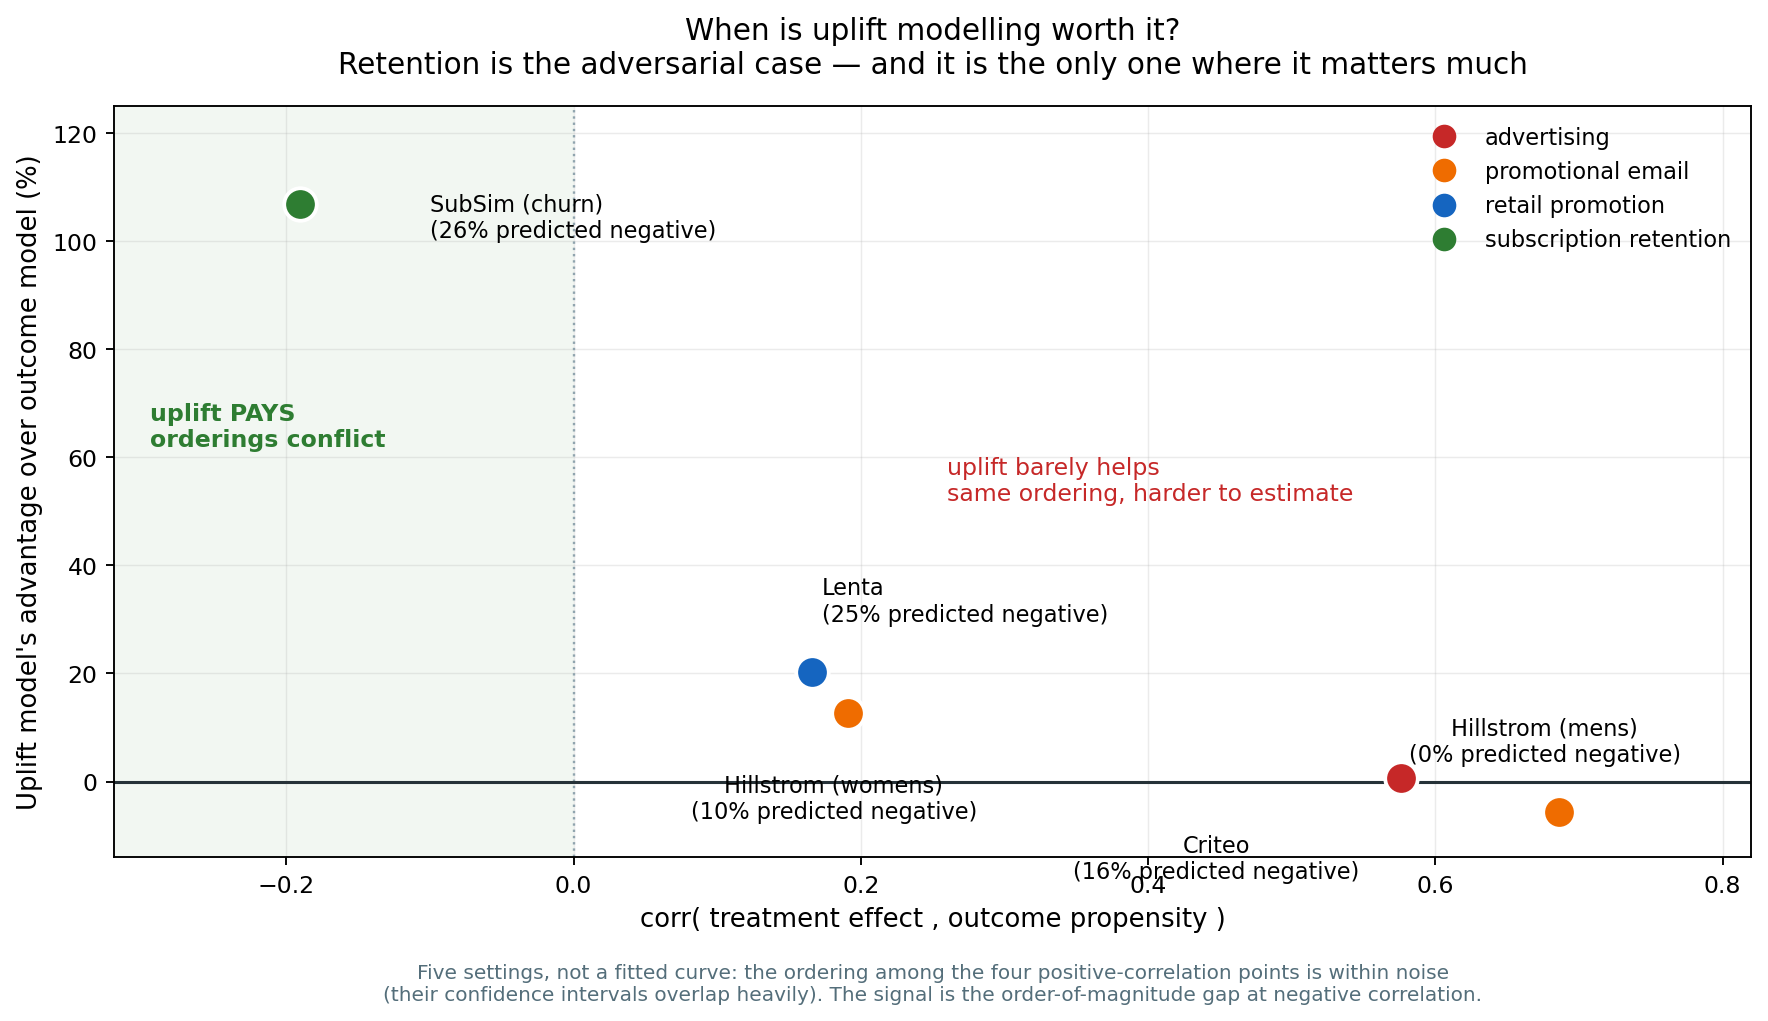
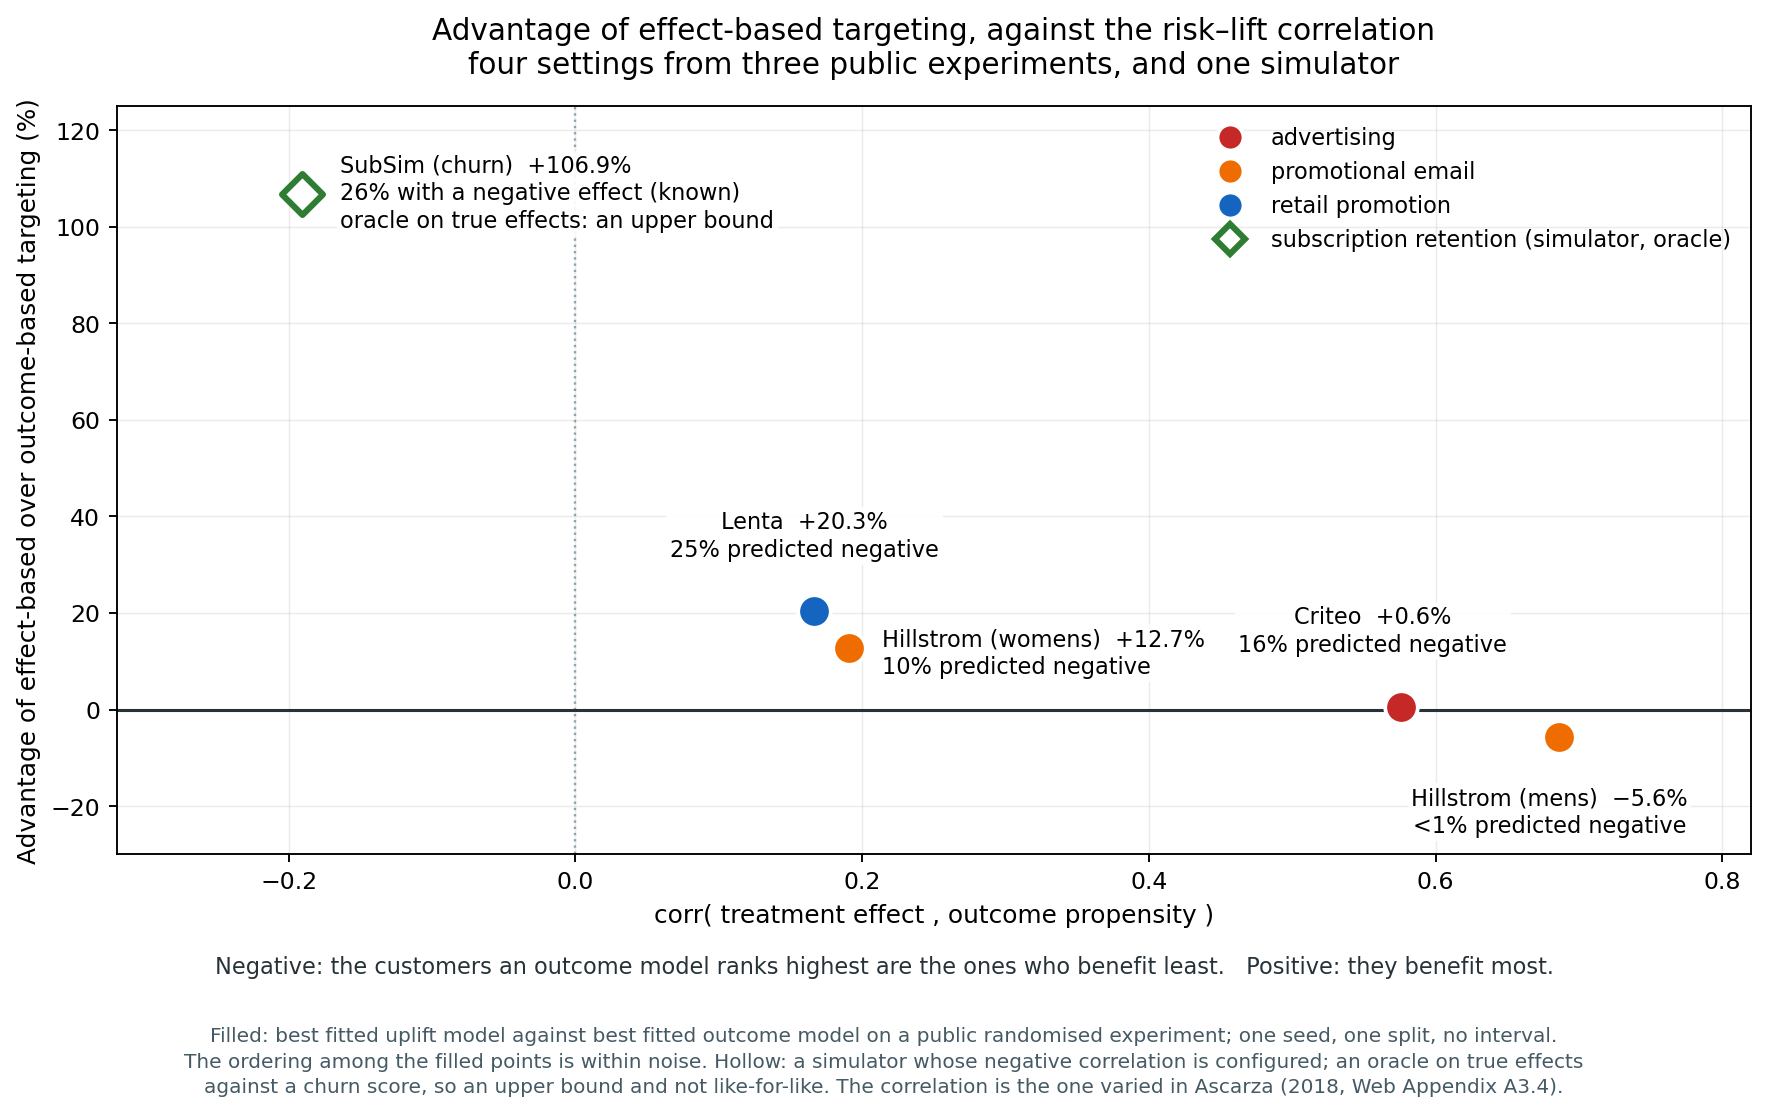
Correlation figure redrawn: the simulator point is marked as an oracle upper bound, not one point on a curve (D-068)
The old figure was titled "Retention is the adversarial case", shaded the
negative-correlation region as "uplift PAYS" and called the gap there "the
signal". That gap compares an oracle on true effects with a churn score, on a
simulator configured to have a negative correlation; the other four points
compare two fitted models on real experiments.

Point now records how it was measured (basis: estimated or oracle), and the
marker, label, legend and printed report are derived from that field.
Estimated points are filled; the SubSim point is a hollow diamond labelled
"oracle on true effects: an upper bound". The claim-style title, the shaded
region and both interpretive notes are removed. The footnote states how each
kind of point is measured and that the correlation is the one varied in
Ascarza (2018, Web Appendix A3.4).

Three defects found while redrawing: SubSim's share harmed was labelled
"predicted" though it is the true share; Hillstrom (mens) showed "0% predicted
negative" for 0.47%; two labels collided so that "Hillstrom (mens)" sat beside
the Criteo point.

Re-measured on the datasets on disk: +0.69/-5.6%, +0.58/+0.6%, +0.19/+12.7%,
+0.17/+20.3%, -0.19/+106.9%. Identical to the 15 Aug 2026 run.

The explainer's copy of the figure dated from 8 Aug and showed superseded
values; it is synced, and the paragraphs of explainer/05 that describe the
figure are corrected to match it.

No tests added: the count (467) is quoted across the panel materials and the
[…]

diff --git a/retainiq/benchmarks/spectrum.py b/retainiq/benchmarks/spectrum.py
@@ -76,6 +76,9 @@ FIG_DIR = Path(__file__).resolve().parents[2] / "papers" / "figures"
 UPLIFT_MODELS = [TLearner, SLearner, ClassTransform]
 OUTCOME_MODELS = [OutcomePropensity, ResponseModel]
 
+ESTIMATED = "estimated"
+ORACLE = "oracle"
+
 
 @dataclass
 class Point:
@@ -87,6 +90,10 @@ class Point:
     """(best uplift - best outcome) / |best outcome|, as a percentage."""
     negative_share: float
     n: int
+    basis: str = ESTIMATED
+    """How the point was measured. ``ESTIMATED``: two fitted models on a real
+    experiment. ``ORACLE``: true effects and an oracle policy against a fitted score,
+    which is an upper bound and not like-for-like with an estimated point (D-068)."""
 
 
 def measure(rct, budget_fraction: float = 0.30, seed: int = 0) -> tuple[float, float, float]:
@@ -166,6 +173,7 @@ def subsim_point() -> Point:
         name="SubSim (churn)", domain="subscription retention",
         correlation=corr, uplift_advantage=advantage,
         negative_share=float((po["tau_true"] > 0).mean()), n=len(po),
+        basis=ORACLE,
     )
 
 
@@ -185,74 +193,118 @@ def collect() -> list[Point]:
     return points
 
 
+COLOURS = {
+    "advertising": "#C62828",
+    "promotional email": "#EF6C00",
+    "retail promotion": "#1565C0",
+    "subscription retention": "#2E7D32",
+}
+
+# Hand-placed label offsets, in points: (dx, dy, horizontal alignment). Criteo and
+# Hillstrom (mens) sit close together near zero advantage, as do Lenta and Hillstrom
+# (womens), so automatic placement collides.
+LABEL_OFFSETS = {
+    "SubSim (churn)": (16, 0, "left"),
+    "Lenta": (-4, 32, "center"),
+    "Hillstrom (womens)": (14, -2, "left"),
+    "Criteo": (-12, 32, "center"),
+    "Hillstrom (mens)": (-4, -32, "center"),
+}
+
+
+def marker_style(point: Point) -> dict:
+    """Filled for an estimated point, hollow for an oracle one.
+
+    The distinction is drawn from ``Point.basis`` and not from the point's name, so a
+    point measured against true effects cannot be plotted as if it were an estimate.
+    """
+    colour = COLOURS.get(point.domain, "#455A64")
+    if point.basis == ORACLE:
+        return {"marker": "D", "s": 150, "facecolor": "white", "edgecolor": colour,
+                "linewidth": 2.6}
+    return {"marker": "o", "s": 190, "facecolor": colour, "edgecolor": "white",
+            "linewidth": 1.6}
+
+
+def point_label(point: Point) -> str:
+    advantage = f"{point.uplift_advantage:+.1f}%".replace("-", "\u2212")
+    # A share that rounds to zero is not zero: Hillstrom (mens) has 0.5% predicted
+    # negative, and printing "0%" would say there are none.
+    share = "<1%" if 0 < point.negative_share < 0.005 else f"{point.negative_share:.0%}"
+    head = f"{point.name}  {advantage}"
+    if point.basis == ORACLE:
+        return (f"{head}\n{share} with a negative effect (known)\n"
+                "oracle on true effects: an upper bound")
+    return f"{head}\n{share} predicted negative"
+
+
 def figure_3(points: list[Point] | None = None, out: Path | None = None) -> Path:
     points = points or collect()
-    fig, ax = plt.subplots(figsize=(10.5, 6.2))
-
-    colours = {
-        "advertising": "#C62828",
-        "promotional email": "#EF6C00",
-        "retail promotion": "#1565C0",
-        "subscription retention": "#2E7D32",
-    }
+    fig, ax = plt.subplots(figsize=(10.5, 6.6))
 
     ax.axhline(0, color="#263238", lw=1.3, zorder=2)
     ax.axvline(0, color="#90A4AE", lw=1.0, ls=":", zorder=1)
 
-    # Hand-placed label offsets: Criteo and Hillstrom(mens) sit almost on top of
-    # each other at corr ~0.6, so automatic placement collides.
-    offsets = {
-        "SubSim (churn)": (55, -6),
-        "Hillstrom (womens)": (-6, -36),
-        "Lenta": (4, 30),
-        "Criteo": (-78, -34),
-        "Hillstrom (mens)": (-6, 30),
-    }
     for p in points:
-        ax.scatter(p.correlation, p.uplift_advantage, s=190,
-                   color=colours[p.domain], zorder=5, edgecolor="white", lw=1.6)
-        dx, dy = offsets.get(p.name, (0, 22))
+        ax.scatter(p.correlation, p.uplift_advantage, zorder=5, **marker_style(p))
+        dx, dy, ha = LABEL_OFFSETS.get(p.name, (0, 26, "center"))
         ax.annotate(
-            f"{p.name}\n({p.negative_share:.0%} predicted negative)",
-            xy=(p.correlation, p.uplift_advantage),
+            point_label(p), xy=(p.correlation, p.uplift_advantage),
             xytext=(dx, dy), textcoords="offset points",
-            ha="left" if dx > 0 else "center", va="center", fontsize=9.5,
+            ha=ha, va="center", fontsize=9.5, linespacing=1.25, zorder=6,
+            # Opaque backing, so a label never has a grid or axis line through it.
+            bbox={"facecolor": "white", "edgecolor": "none", "pad": 1.5, "alpha": 0.92},
         )
 
-    ax.set_ylim(-14, 125)
+    ax.set_ylim(-30, 125)
     ax.set_xlim(-0.32, 0.82)
 
-    ax.axvspan(-0.32, 0.0, color="#2E7D32", alpha=0.06, lw=0, zorder=0)
-    ax.annotate("uplift PAYS\norderings conflict", xy=(-0.295, 62),
-                fontsize=10, color="#2E7D32", ha="left", weight="bold")
-    ax.annotate("uplift barely helps\nsame ordering, harder to estimate", xy=(0.26, 52),
-                fontsize=10, color="#C62828", ha="left")
-
-    ax.set_xlabel("corr( treatment effect , outcome propensity )", fontsize=11)
-    ax.set_ylabel("Uplift model's advantage over outcome model (%)", fontsize=11)
+    ax.set_xlabel("corr( treatment effect , outcome propensity )", fontsize=10.5)
+    ax.set_ylabel("Advantage of effect-based over outcome-based targeting (%)", fontsize=10.5)
     ax.set_title(
-        "When is uplift modelling worth it?\n"
-        "Retention is the adversarial case — and it is the only one where it matters much",
+        "Advantage of effect-based targeting, against the risk\u2013lift correlation\n"
+        "four settings from three public experiments, and one simulator",
         fontsize=12.5, pad=14,
     )
     ax.grid(alpha=0.25, lw=0.6)
     ax.set_axisbelow(True)
-    # Four points is a contrast, not a fitted relationship. Deliberately no trend line.
-    ax.text(
-        0.5, -0.19,
-        "Five settings, not a fitted curve: the ordering among the four positive-correlation "
-        "points is within noise\n(their confidence intervals overlap heavily). The signal is "
-        "the order-of-magnitude gap at negative correlation.",
-        transform=ax.transAxes, ha="center", fontsize=8.5, color="#546E7A",
+
+    # Five points are a contrast, not a fitted relationship. Deliberately no trend
+    # line, and no shaded "uplift pays" region: the one point at negative correlation
+    # is an oracle on a simulator configured to have that correlation (D-068).
+    fig.text(
+        0.5, 0.118,
+        "Negative: the customers an outcome model ranks highest are the ones who benefit "
+        "least.   Positive: they benefit most.",
+        ha="center", va="bottom", fontsize=9.5, color="#263238",
+    )
+    fig.text(
+        0.5, 0.012,
+        "Filled: best fitted uplift model against best fitted outcome model on a public "
+        "randomised experiment; one seed, one split, no interval.\n"
+        "The ordering among the filled points is within noise. Hollow: a simulator whose "
+        "negative correlation is configured; an oracle on true effects\n"
+        "against a churn score, so an upper bound and not like-for-like. The correlation "
+        "is the one varied in Ascarza (2018, Web Appendix A3.4).",
+        ha="center", va="bottom", fontsize=8.5, color="#455A64", linespacing=1.45,
     )
 
-    handles = [
-        plt.Line2D([], [], marker="o", ls="", color=c, ms=9, label=d)
-        for d, c in colours.items()
-    ]
+    handles, seen = [], set()
+    for p in points:
+        key = (p.domain, p.basis)
+        if key in seen:
+            continue
+        seen.add(key)
+        style = marker_style(p)
+        label = p.domain if p.basis == ESTIMATED else f"{p.domain} (simulator, oracle)"
+        handles.append(plt.Line2D(
+            [], [], ls="", marker=style["marker"], ms=11 if p.basis == ESTIMATED else 9,
+            markerfacecolor=style["facecolor"], markeredgecolor=style["edgecolor"],
+            markeredgewidth=style["linewidth"], label=label,
+        ))
     ax.legend(handles=handles, frameon=False, fontsize=9.5, loc="upper right")
 
-    fig.tight_layout()
+    fig.tight_layout(rect=(0, 0.14, 1, 1))
     out = out or (FIG_DIR / "fig03_when_uplift_pays.png")
     out.parent.mkdir(parents=True, exist_ok=True)
     fig.savefig(out, dpi=170, bbox_inches="tight", facecolor="white")
@@ -268,18 +320,22 @@ def report(points: list[Point]) -> str:
         "-" * 84,
     ]
     for p in sorted(points, key=lambda q: -q.correlation):
+        name = f"{p.name} *" if p.basis == ORACLE else p.name
         lines.append(
-            f"{p.name:<22}{p.domain:<24}{p.correlation:>8.2f}"
+            f"{name:<22}{p.domain:<24}{p.correlation:>8.2f}"
             f"{p.uplift_advantage:>12.1f}%{p.negative_share:>12.1%}"
         )
     lines.append("-" * 84)
     lines.append(
         "High correlation => outcome model ranks the same customers, via an easier\n"
         "estimation problem, so uplift modelling costs variance and buys nothing.\n"
-        "Negative correlation => the outcome model actively selects customers it harms.\n"
-        "SubSim row: true effects, oracle vs churn score. It is an upper bound, not\n"
-        "like-for-like with the rows above (D-068)."
+        "Negative correlation => the outcome model actively selects customers it harms."
     )
+    if any(p.basis == ORACLE for p in points):
+        lines.append(
+            "* true effects, oracle vs churn score. An upper bound, not like-for-like\n"
+            "  with the estimated rows (D-068)."
+        )
     return "\n".join(lines)
 
 

diff --git a/docs/BUILDLOG.md b/docs/BUILDLOG.md
@@ -1518,3 +1518,44 @@ re-run: the table values are those recorded on 15 August 2026.
 **Tested.** `spectrum.report` printed with the new footer; lint clean; `make check` green
 (467 tests, both calibration gates). No test reads the changed strings.
 
+## Correlation figure redrawn so it cannot be read as one curve (D-068)
+
+**Changed.** `fig03_when_uplift_pays.png`, from `python -m retainiq.benchmarks.spectrum`.
+`Point` gains a `basis` field (`estimated` or `oracle`); the marker, the label, the legend
+and the printed report are derived from it, so a point measured against true effects cannot
+be drawn as if it were an estimate. Estimated points are filled; the SubSim point is a hollow
+diamond labelled "oracle on true effects: an upper bound". Removed: the title "Retention is
+the adversarial case — and it is the only one where it matters much", the shaded region
+captioned "uplift PAYS", the note "uplift barely helps", and the footnote sentence calling the
+gap at negative correlation "the signal". Added: a neutral title, each point's advantage in
+its label, a plain reading of the axis sign, and a footnote stating how each kind of point is
+measured and that the correlation is the one varied in Ascarza (2018, Web Appendix A3.4).
+
+**Found while redrawing.** Three defects in the old figure that were not about the claim.
+The SubSim label read "26% predicted negative" although that share is the *true* share
+harmed; it now says "known". Hillstrom (mens) read "0% predicted negative" for a share of
+0.47%; a share that rounds to zero now prints "<1%". Two labels collided with the axis and
+with each other, so "Hillstrom (mens)" sat beside the Criteo point.
+
+**Numbers.** Re-measured on the datasets on disk (61 s): +0.69 / −5.6%, +0.58 / +0.6%,
++0.19 / +12.7%, +0.17 / +20.3%, −0.19 / +106.9%. Identical to the 15 August 2026 run and to
+the README table.
+
+**Also changed.** The explainer's copy of the figure was from 8 August and showed
+superseded values; it is synced, and the three paragraphs of `explainer/05` that describe
+the figure now explain the hollow point, credit the idea, and quote the current values
+(+0.17, between +0.58 and −0.19). The rest of the explainer has not been reviewed against
+D-068.
+
+**Not changed.** The captions in `PROJECT_REPORT.md`, `papers/RESEARCH_PAPER.md` and
+`papers/paper1/main.tex`, which now sit beside a more cautious figure than they describe; the
+built paper PDF and DOCX, which still embed the old one.
+
+**Tested.** Looked at the rendered figure at full size. Ad-hoc checks, not added to the suite:
+default basis is `estimated`; oracle and estimated markers differ; the oracle label carries
+"upper bound" and an estimated one does not; 0.47% prints "<1%" and a true zero prints "0%";
+the report stars only oracle rows and omits the footnote when there are none; a point with an
+unknown name and domain renders (the old code raised `KeyError`). `make check` green, 467
+tests. **No tests were added**, because the test count is quoted throughout the panel
+materials and the recorded video; adding them is a separate, coordinated change.
+

diff --git a/explainer/05-the-evidence.md b/explainer/05-the-evidence.md
@@ -260,23 +260,37 @@ being merely wasteful and starts actively selecting the customers you will harm.
 Each point is one setting. The horizontal axis measures how closely the two orderings
 agree. The vertical axis is how much better the effect-based approach does.
 
-Everything on the right — advertising, promotional email, retail texts — sits near zero.
-The orderings agree there, so the sophisticated approach buys almost nothing. Only
-subscription retention sits on the left, and it is an order of magnitude above the rest.
+The four filled points are real experiments: an advertising campaign, two promotional
+emails and a retail promotion. In each one we fitted both kinds of model and compared
+them. Where the two orderings agree closely, on the right, the sophisticated approach
+buys nothing or does slightly worse. Where they agree less, it does somewhat better.
 
-### Why this made the argument stronger, not weaker
+The hollow point is different and should be read differently. It is our simulator, not a
+real business. We built the simulator so that the two orderings conflict, and the point
+shows the best that *any* targeting could do there, because it uses the true effect of
+the offer on each customer, which only a simulator can know. It is a ceiling on the gain,
+not a gain anyone has achieved.
+
+### What this does and does not show
 
 It replaced *"this approach is better"* — which is **false in advertising, and we can
-prove it** — with something narrower and testable: **subscription retention has a
-structure that advertising does not.**
+show it** — with something narrower: **how much the effect-based approach gains depends
+on how far the two orderings disagree.**
+
+That idea is not ours. A 2018 study by Eva Ascarza varied this same quantity in a
+simulation and reported two field experiments; in one of them, targeting the customers
+most likely to cancel made cancellations rise. What we add is the measurement on public
+experiments, and what happens when there is little data to learn from.
 
 It also produced a prediction we could get wrong. Before downloading Lenta, we wrote down
 that retail promotion should land *between* advertising and subscription retention. It
-landed at +0.18, between +0.61 and −0.19, as predicted.
+landed at +0.17, between +0.58 and −0.19, as predicted.
 
-One caveat we state plainly, and the figure states on its face: with five settings this
-is a contrast, not a curve. The ordering among the four points on the right is within
-noise. The finding is the gap on the left.
+Two caveats we state plainly, and the figure states on its face. With five settings this
+is a contrast, not a curve: the ordering among the four filled points is within noise.
+And none of the four real experiments is about cancellations, so the claim that
+subscription retention sits on the left rests on our simulator and on other researchers'
+field experiments, not on data of our own.
 
 ---
 

diff --git a/CLAUDE.md b/CLAUDE.md
@@ -208,7 +208,7 @@ Older detail lives in `docs/BUILDLOG.md`; only the current edge is kept here.
   churn (+4.4pp). Profit-scored targeting + validated cutoff = Lemmens & Gupta 2020, **not yet a
   baseline**. Left: pilot size, low-churn floor, uplift losing at finite n. **Our five points are
   NOT like-for-like** (real: estimates, pooled risk, one seed; SubSim: TRUE effect, ORACLE vs
-  score); six checks owed. README, plan, `spectrum.py` corrected; paper, fig03, PROJECT_REPORT NOT.
+  score); six checks owed. README, plan, `spectrum.py`, fig03 corrected; paper, PROJECT_REPORT NOT.
 - **CP-20/19** — **Deck, storyboard, silent demo video (D-067; `make demo-video`).** Real
   outputs only. Kill-test model AUC 0.700, recall 44.5%, precision 7.4%; **accuracy 79.6% <
   96.7% for always 'stays'** — never a headline. Readiness PER COMPONENT. Recording live caught

diff --git a/README.md b/README.md
@@ -61,8 +61,8 @@ landed, though the test is underpowered (D-031).
 
 ![When uplift pays](papers/figures/fig03_when_uplift_pays.png)
 
-*The figure's title and footnote predate D-068. The SubSim point is the oracle on true
-effects, so the gap it shows is an upper bound, not a like-for-like measurement.*
+*Filled points are fitted models on real experiments. The hollow point is the simulator's
+oracle on true effects: an upper bound, not a like-for-like measurement.*
 
 **2. At the scale of the businesses this most concerns, neither method is reliable.**
 
